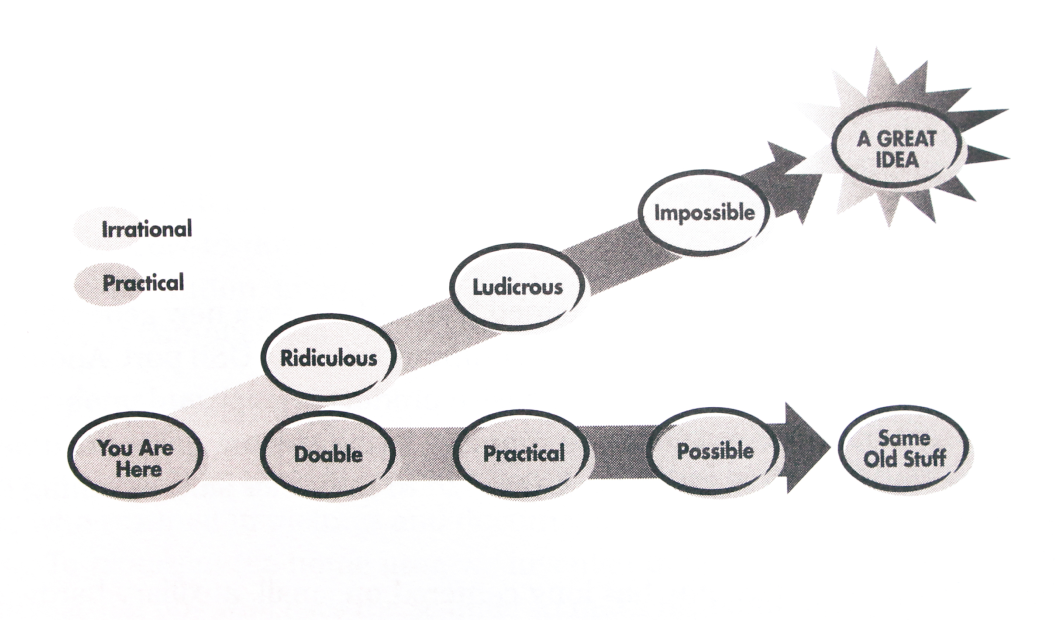
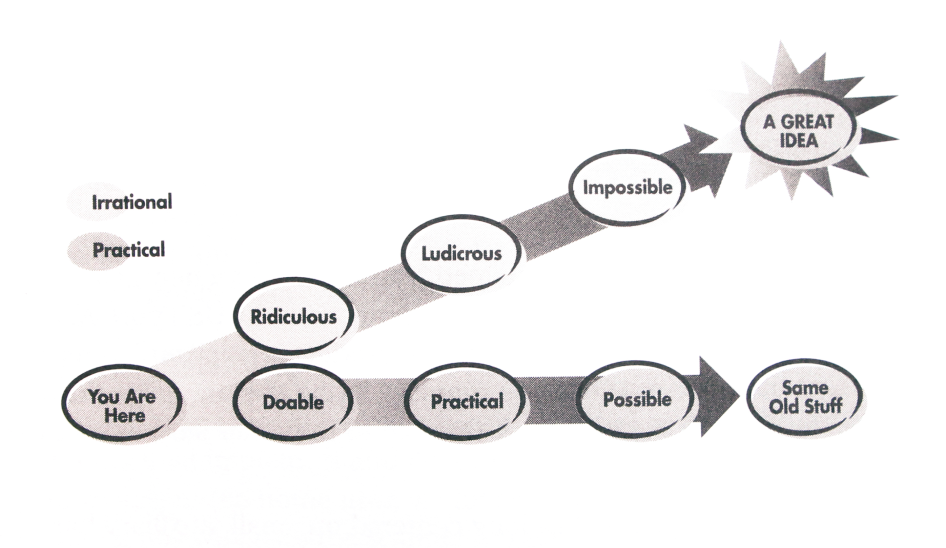
made img bg multiply (invisible)

diff --git a/css/layout.css b/css/layout.css
@@ -307,6 +307,7 @@
 
 .copy-img {
   width: 30rem;
+  mix-blend-mode: multiply;
 }
 
 /* mobile layout modifications */
@@ -377,5 +378,6 @@
   }
   .copy-img {
     width: 70vw;
+    mix-blend-mode: multiply;
   }
 }

diff --git a/css/layout.scss b/css/layout.scss
@@ -223,6 +223,7 @@
 
 .copy-img{
     width:30rem;
+    mix-blend-mode: multiply;
 }
 
 
@@ -274,6 +275,7 @@
 
 .copy-img{
     width:70vw;
+    mix-blend-mode: multiply;
 }
 
 }
